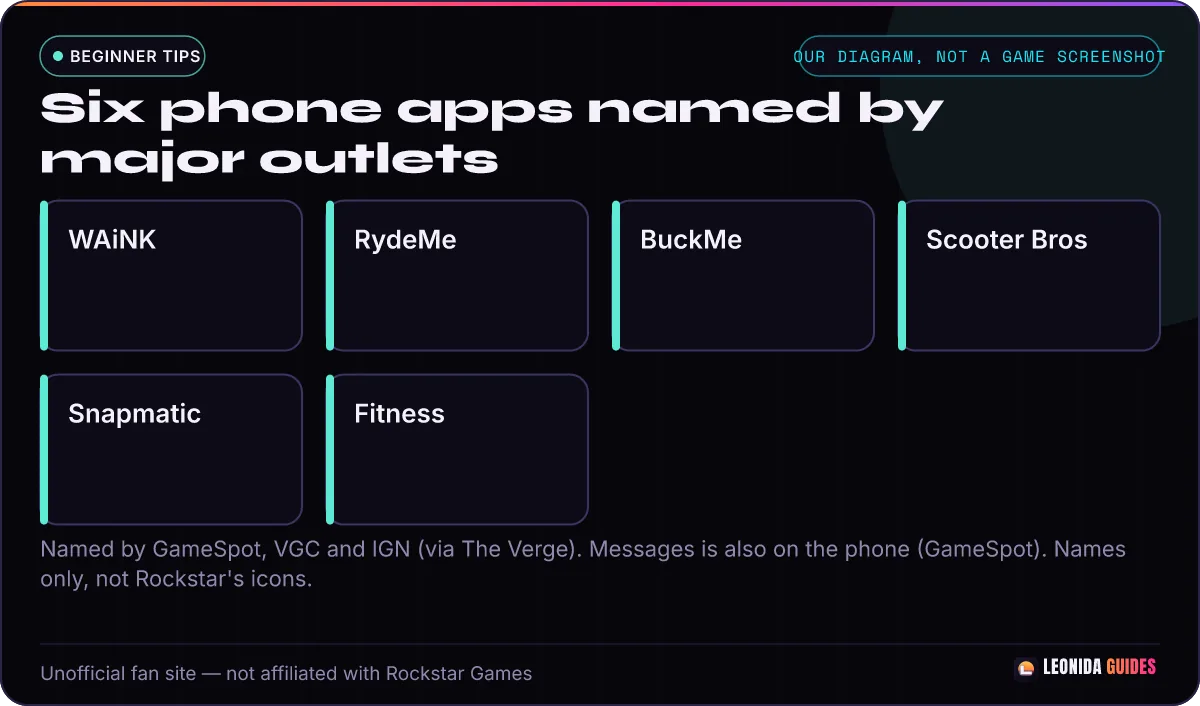
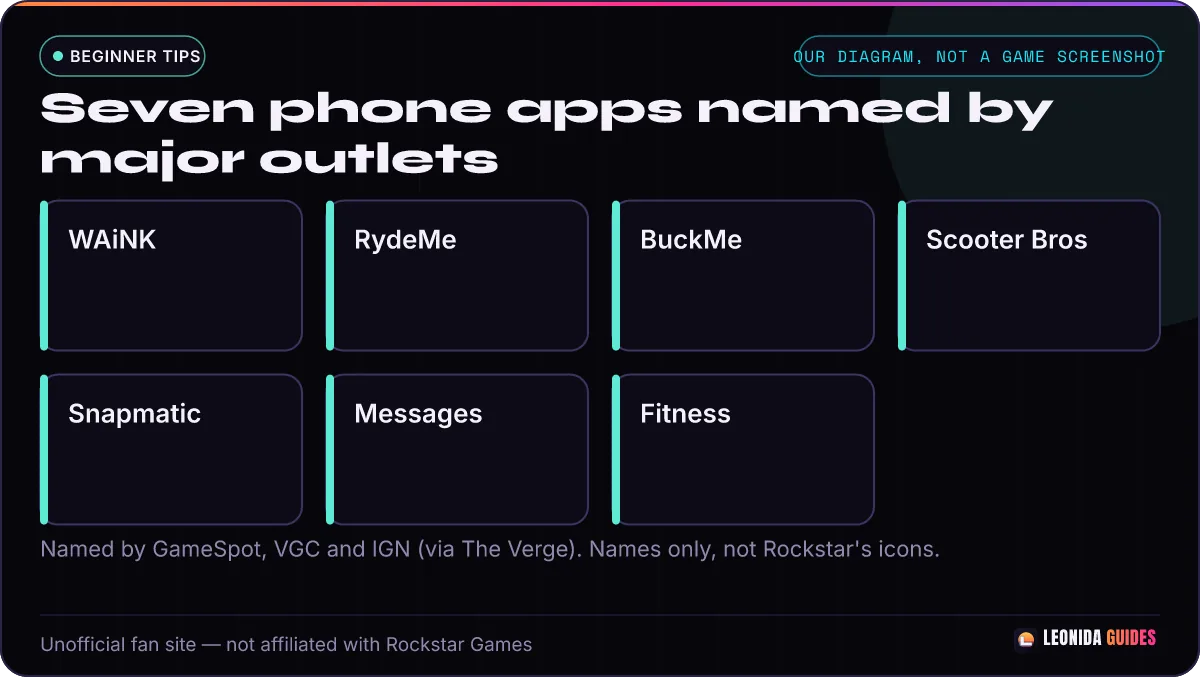
content: auto-publish 2026-11-18T22:09:27Z

diff --git a/content/gta-6-phone-apps.md b/content/gta-6-phone-apps.md
@@ -48,8 +48,8 @@ draft: true
 
 GameSpot says both Jason and Lucia have their own phone, and that the default apps include Messages, Snapmatic and Scooter Bros.
 
-![Our diagram: Six phone apps named by major outlets. WAiNK. RydeMe. BuckMe. Scooter Bros. Snapmatic. Fitness. Not a game screenshot.](TODO: image:gta-6-phone-apps-step-1 — diagram, our own art: Six phone apps named by major outlets, see the spec)
-*Caption: Diagram. Phone apps named by major outlets, with names only, not Rockstar's icons.*
+![Our diagram: Seven phone apps named by major outlets. WAiNK. RydeMe. BuckMe. Scooter Bros. Snapmatic. Messages. Fitness. Not a game screenshot.](TODO: image:gta-6-phone-apps-step-1 — diagram, our own art: Seven phone apps named by major outlets, see the spec)
+*Caption: Diagram. The seven phone apps named by major outlets, names only, not Rockstar's icons.*
 
 ## Shortcuts and tips
 
